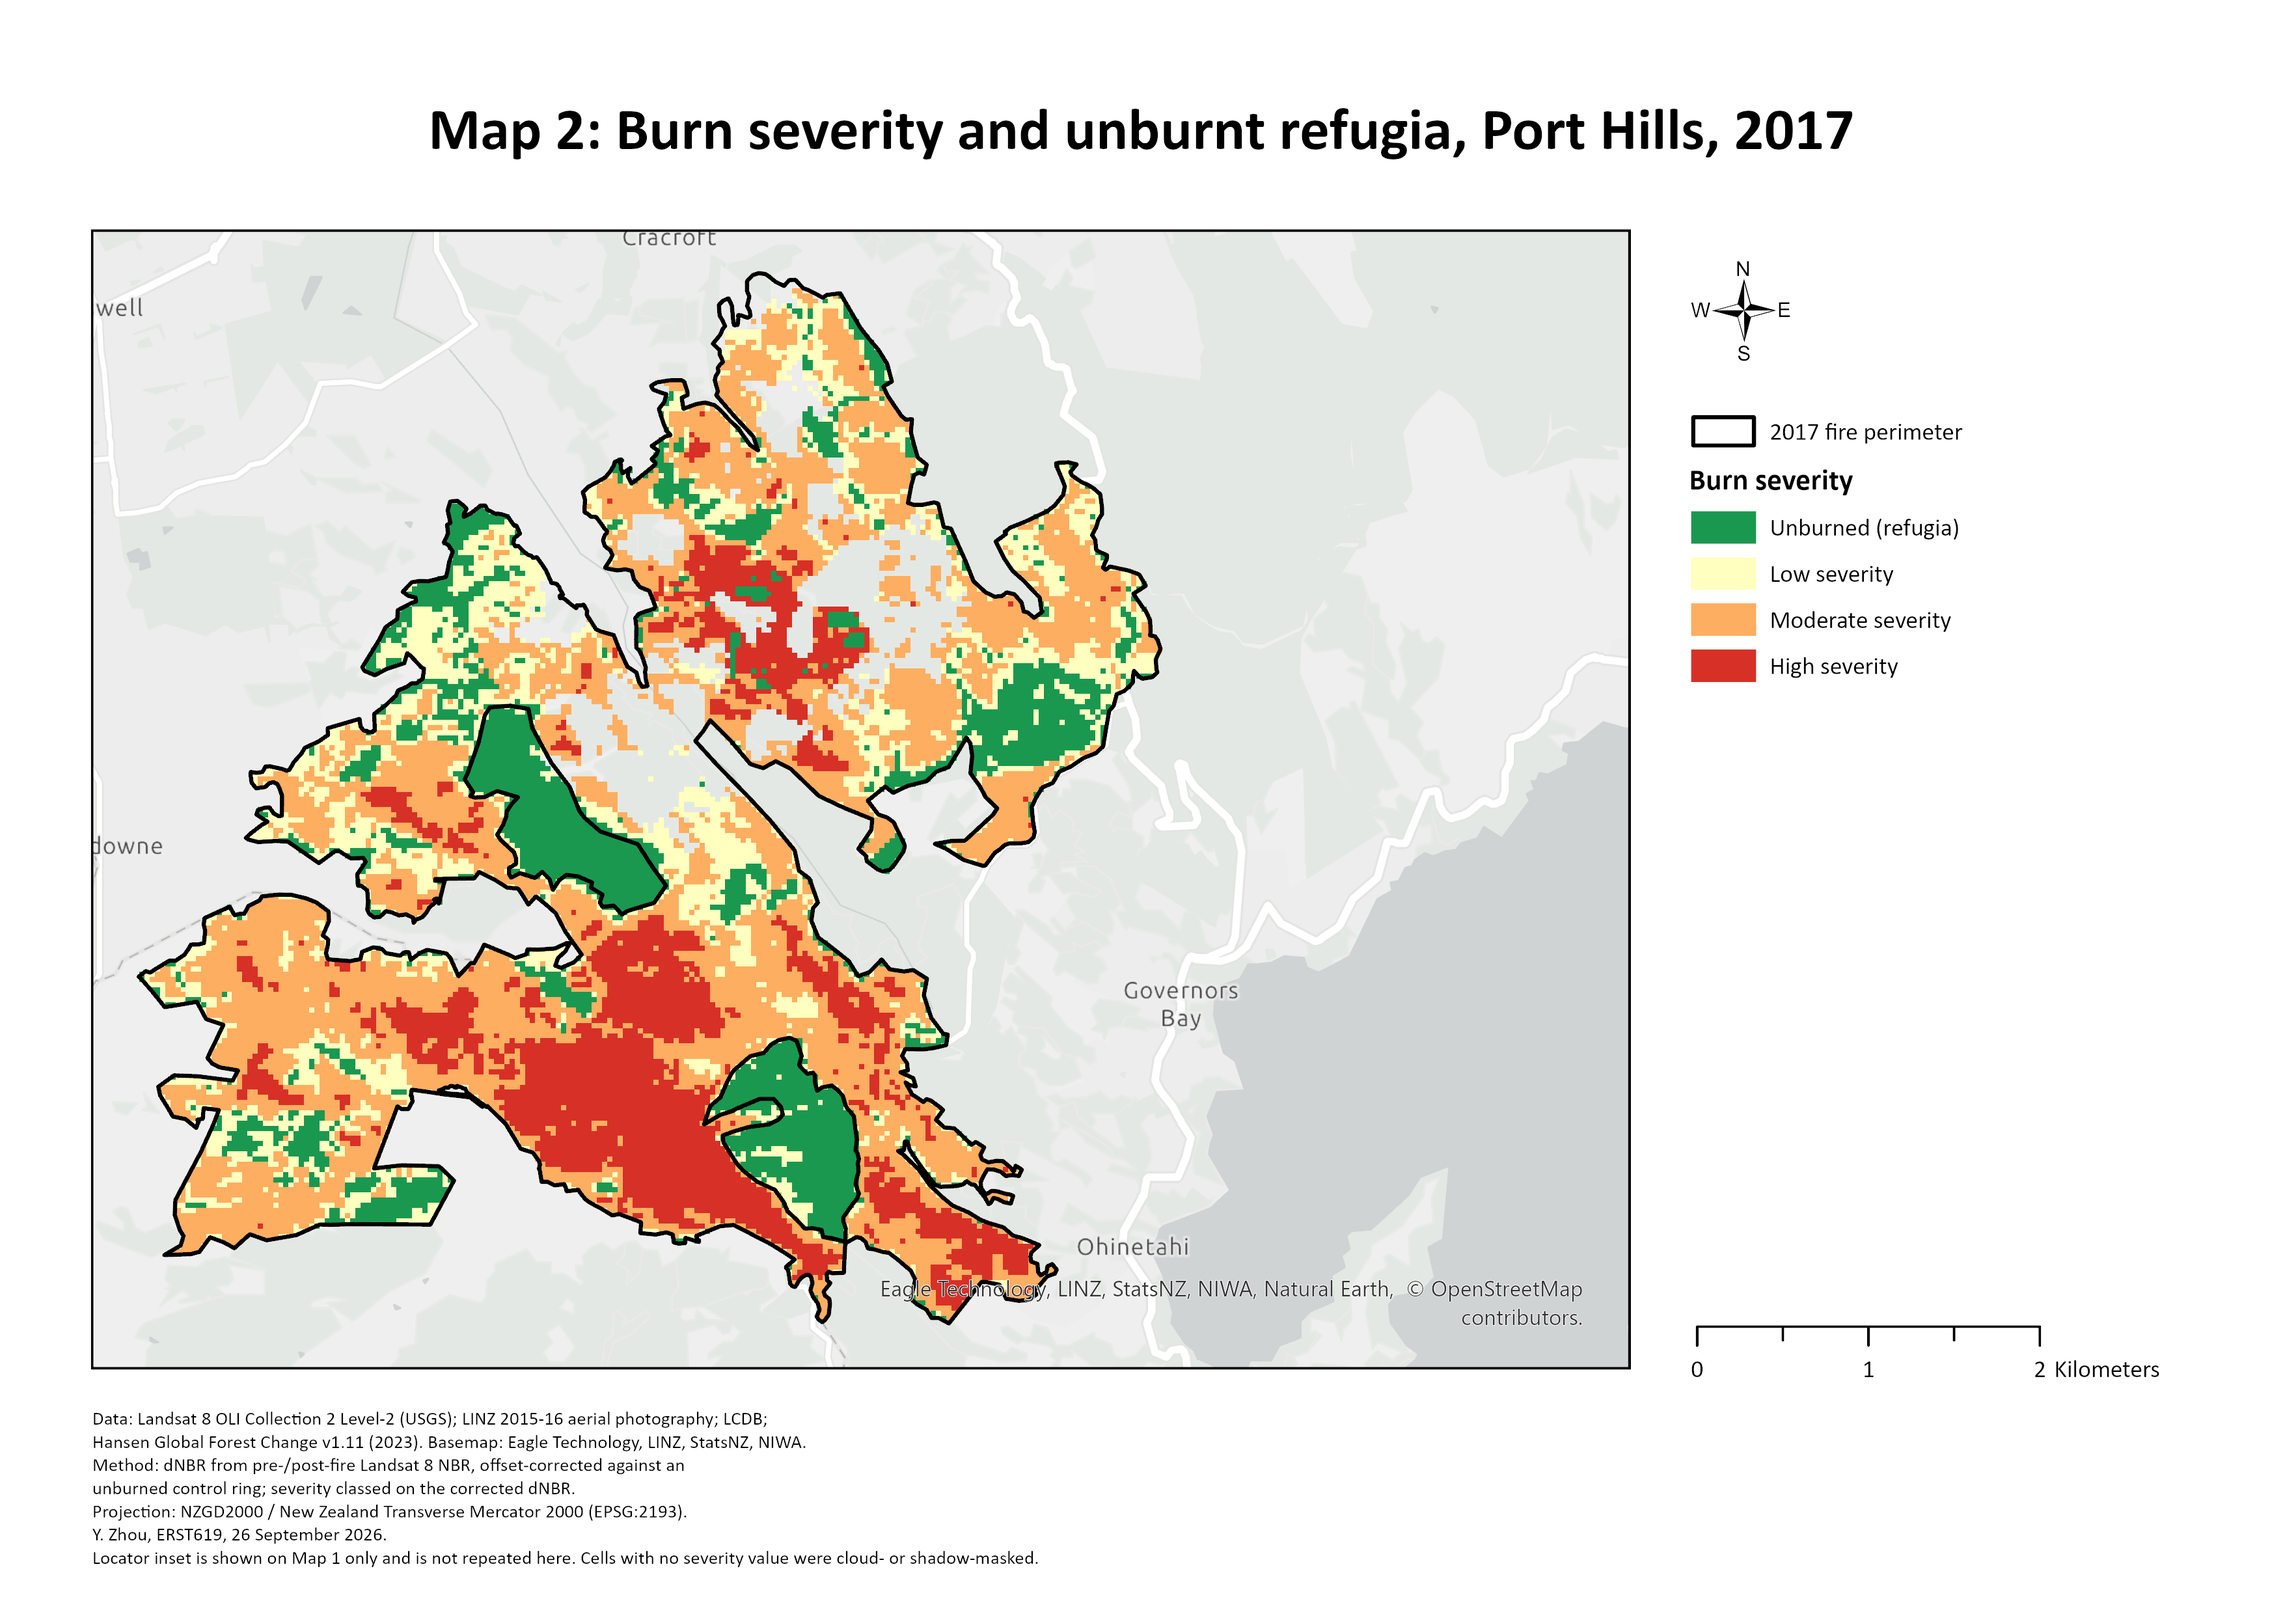
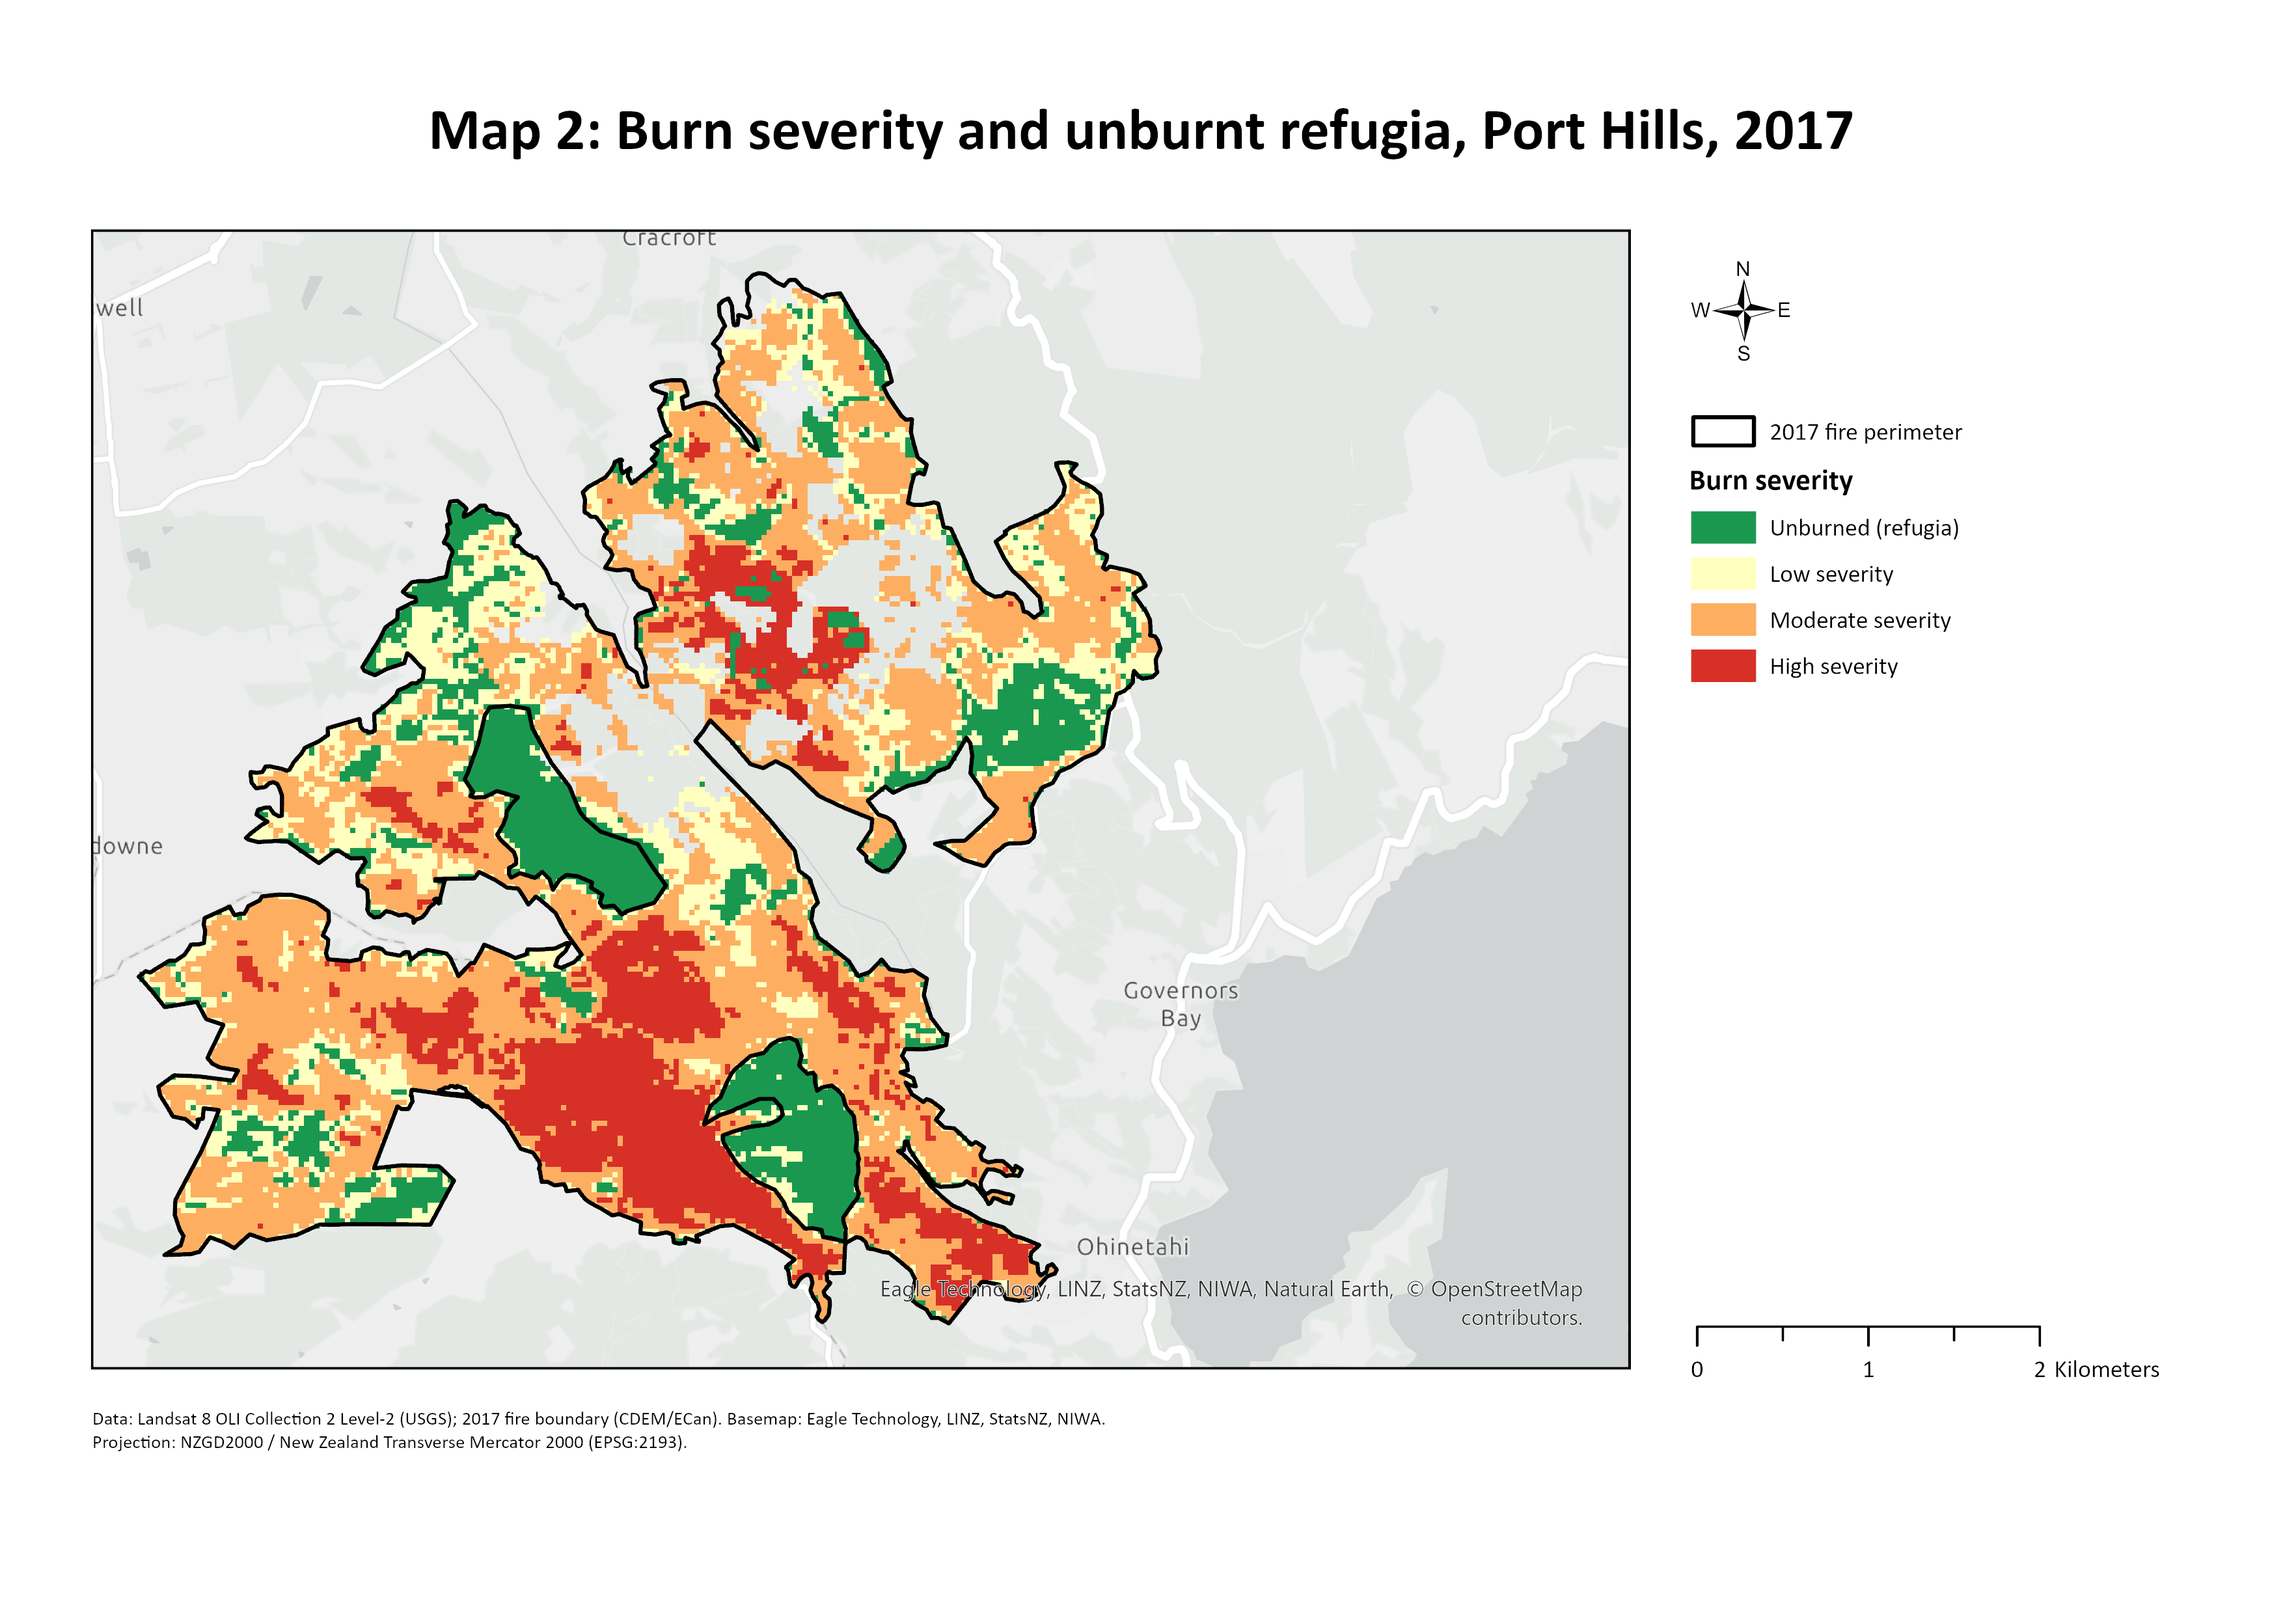
R7: trim map foot text to data sources + projection only

Changed region(s): [[0.0311, 0.8694, 0.3729, 0.9625]]

diff --git a/scripts/46_set_map_credits.py b/scripts/46_set_map_credits.py
@@ -1,0 +1,38 @@
+# -*- coding: utf-8 -*-
+"""Set the source block at the foot of the final maps to sources + projection
+only, then export them to exploration/map_final/.
+
+Saves the change into PortHills2017.aprx when Pro is closed; while Pro holds
+the file lock it only exports (the aprx keeps the old text until re-run).
+"""
+import os, arcpy
+
+APRX = r"C:\Users\zhouy3d\Desktop\PortHills\PortHills2017\PortHills2017.aprx"
+OUT = r"C:\Users\zhouy3d\Desktop\a3\exploration\map_final"
+BASEMAP = "Basemap: Eagle Technology, LINZ, StatsNZ, NIWA."
+BOUNDARY = "2017 fire boundary (CDEM/ECan)"
+CRS = "Projection: NZGD2000 / New Zealand Transverse Mercator 2000 (EPSG:2193)."
+
+CREDITS = {
+    # layout name: (export name, source lines)
+    "V2_CVDsafe": ("Map1_FuelClass_V2", [
+        "Data: Landsat 8 OLI Collection 2 Level-2 (USGS); LINZ 2015-16 aerial photography; LCDB;",
+        "Hansen Global Forest Change v1.11 (2023); " + BOUNDARY + ". " + BASEMAP, CRS]),
+    "Map2_Refugia": ("Map2_Refugia", [
+        "Data: Landsat 8 OLI Collection 2 Level-2 (USGS); " + BOUNDARY + ". " + BASEMAP, CRS]),
+    "Map3_DataCleaning": ("Map3_DataCleaning", [
+        "Data: Landsat 8 OLI Collection 2 Level-2 (USGS); " + BOUNDARY + ". " + BASEMAP, CRS]),
+}
+
+p = arcpy.mp.ArcGISProject(APRX)
+for lname, (fn, lines) in CREDITS.items():
+    lo = p.listLayouts(lname)[0]
+    lo.listElements("TEXT_ELEMENT", "Credits")[0].text = "\n".join(lines)
+    lo.exportToPNG(os.path.join(OUT, fn + ".png"), resolution=300)
+    lo.exportToPDF(os.path.join(OUT, fn + ".pdf"), resolution=300)
+    print("ok", lname)
+try:
+    p.save()
+    print("saved into aprx")
+except OSError:
+    print("aprx is open in ArcGIS Pro: exported only, NOT saved -- close Pro and re-run")
